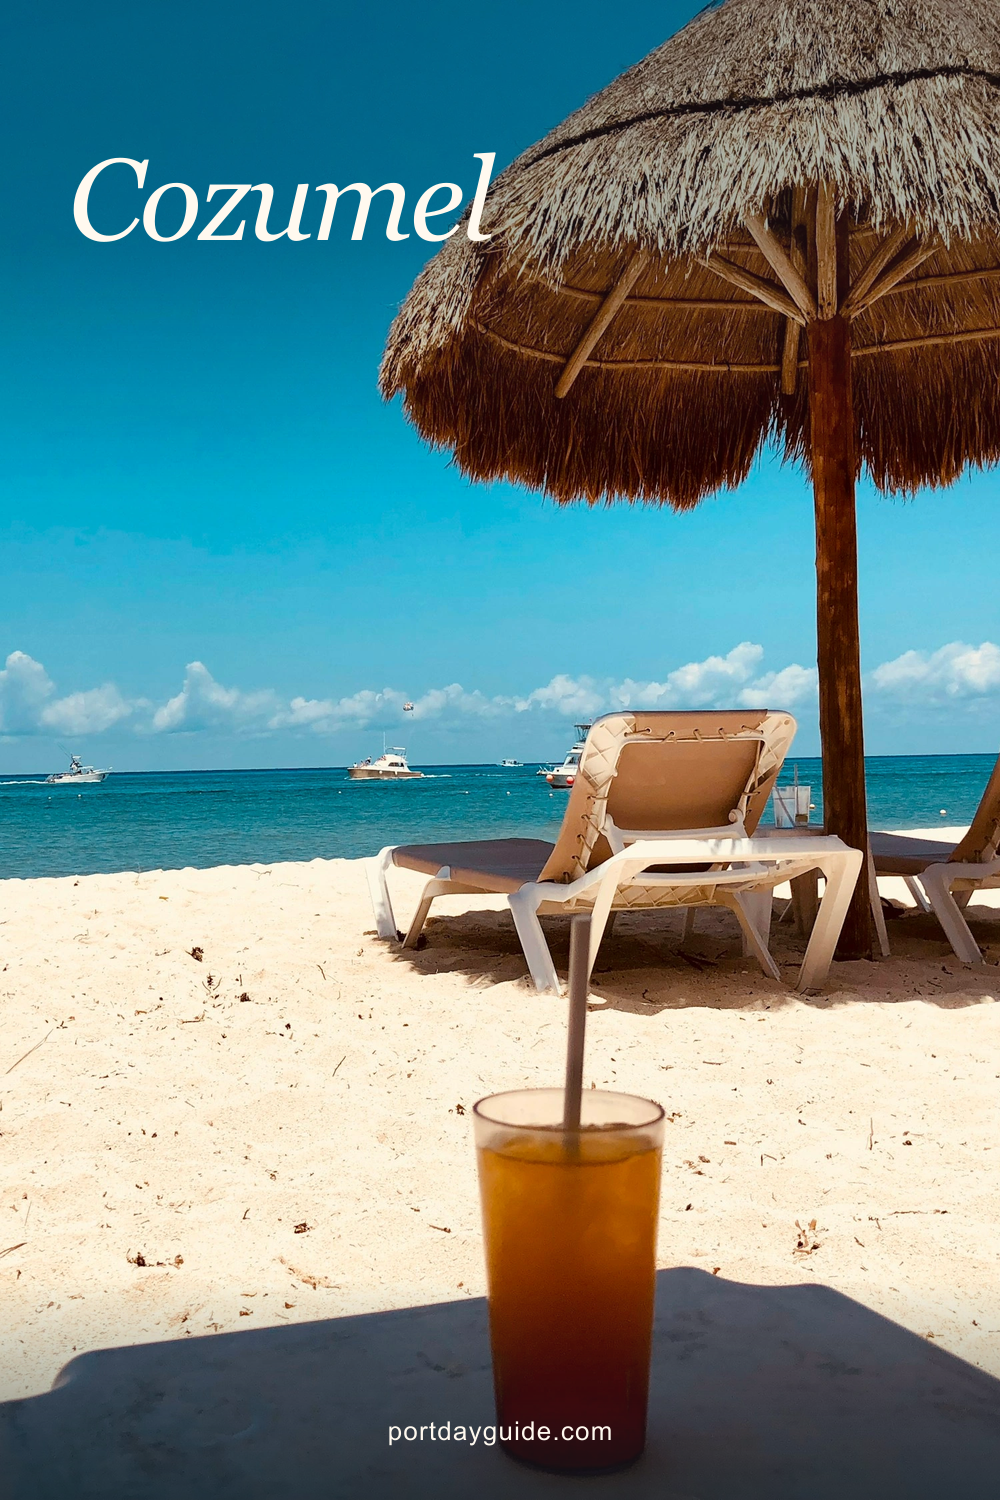
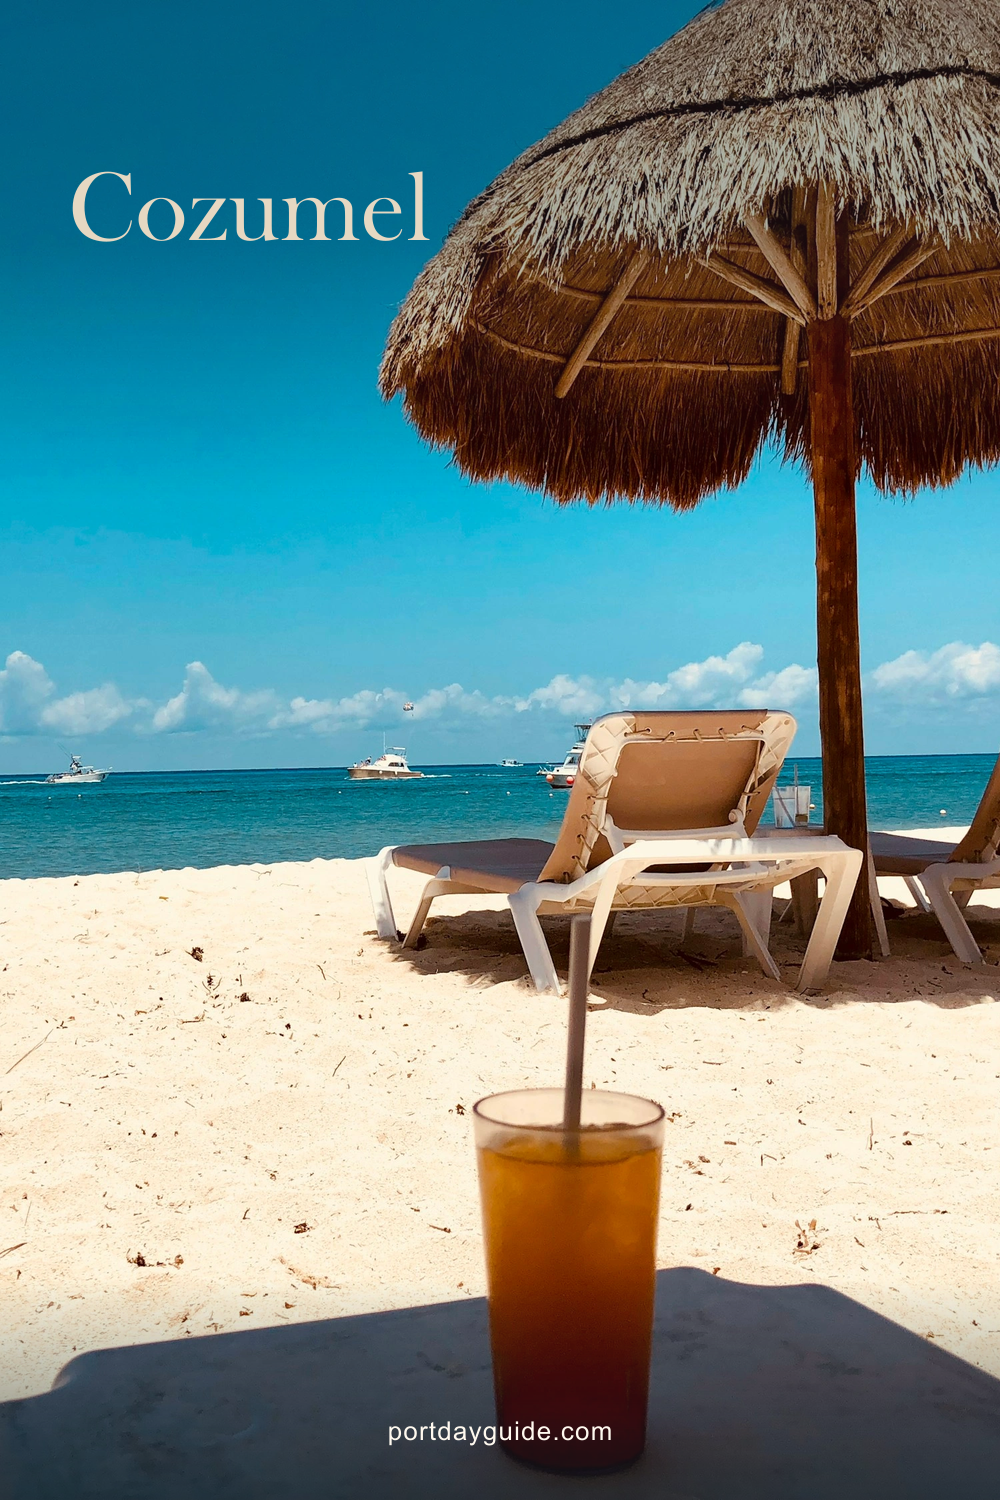
Refine Pinterest place typography and photo-matched colors

Changed region(s): [[0.093, 0.092, 0.496, 0.184], [0.093, 0.1533, 0.124, 0.184], [0.062, 0.1227, 0.093, 0.1533]]

diff --git a/docs/pinterest-batches/2026-10-31/README.md b/docs/pinterest-batches/2026-10-31/README.md
@@ -4,9 +4,20 @@
 
 ![All six draft Pins](contact-sheet.png)
 
-## November 1 visual revision
+## November 2 typography and palette refinement
 
-Recomposed the same six draft identities after the owner requested a more Instagram-style travel editorial look. Six different real photographs fill the frame: Cozumel beach and sweeping coast, Mahahual from above and at water level, Yokohama sunset and illuminated waterfront reflections. The latest owner direction removes all promotional overlay copy and on-image credits. Each image contains exactly the accurate place name (Cozumel, Mahahual or Yokohama) in Georgia and a much smaller portdayguide.com mark. The six photographs and their distinct views are retained, with only localized transparent gradients for legibility. No scenery was generated, replaced or retouched.
+Six different real photographs fill the frame: Cozumel beach and sweeping coast, Mahahual from above and at water level, Yokohama sunset and illuminated waterfront reflections. Each image contains exactly its accurate place name (Cozumel, Mahahual or Yokohama) and a much smaller portdayguide.com mark. The latest refinement makes the labels another step smaller and coordinates typography and color with each photograph. Cozumel and Mahahual use regular Baskerville Old Face at 100 px; Yokohama uses Segoe UI Light at 90 px. The photographs, crops and 26 px website marks are retained. No scenery was generated, replaced or retouched.
+
+| View | Place-name color | Visual fit |
+| --- | --- | --- |
+| Cozumel beach | Warm sand ivory `#E6D8C2` | Picks up the beach and thatch. |
+| Cozumel coast | Cool sea-foam gray `#D0DCDD` | Fits the surf and blue-gray cloud cover. |
+| Mahahual aerial | Muted sage ivory `#D2DBCB` | Coordinates with palms and pale beach. |
+| Mahahual palms | Soft sea-glass ivory `#D4DED6` | Echoes the shallow water. |
+| Yokohama sunset | Deep desaturated blue-gray `#344A52` | Uses the skyline's shadow tones against the original pale dusk sky. |
+| Yokohama night | Muted silver-blue `#B9CED7` | Picks up the waterfront reflections. |
+
+Tracking is restrained (0.5-0.8 px), without outlines, shadows or labels. Mahahual's water-level view changes only the place-name alignment from centered to left-aligned, moving it clear of the bright cloud into blue-sky negative space. Its baseline stays fixed. The dusk view removes the old top darkening gradient to support dark lettering against the original sky; all other overlays are unchanged. Every pixel below the top 500 px is identical to the preceding draft, including each website mark.
 
 New photo selection required new source files because the original taxi/terminal/promenade images did not deliver the requested scenic appeal. [Photo source register](photo-sources.json) records the verified primary source pages, photographer, location, platform license, download URL and download checksum. The six local WebP inputs are in the sources directory; these are draft inputs, not a stock photo collection or a claim that these new sources already appear in the site's public rights register. Source and license pages were checked November 1, 2026. The [Unsplash License](https://unsplash.com/license) and [Pexels License](https://www.pexels.com/license/) do not require on-image attribution. Each final publishing description retains the photographer, source URL, license URL and a crop/gradient/type modification notice; no photo replacement was necessary.
 
@@ -34,7 +45,7 @@ Prepared against main `91aa1d7de0a81d4bff0f0a29bc9f3c59f9ca2a9c`. Read the curre
 - [Publishing copy and preview for each Pin](copy-and-sources.md): exact English title, description, alt text, destination, angle and linked rights.
 - [CSV](publishing-copy.csv): review/publishing reference, **not** an automatic Pinterest bulk-upload specification.
 - [Manifest](manifest.json): full destinations, image and source SHA-256 hashes, dimensions, credit/license records, publication order and null actual publication fields.
-- [Editable brief](pins.json) and [renderer](render.mjs): deterministic native layouts extending the approach used by `scripts/generate-share-cards.mjs`. Verified real photographs are resized/cropped without generative retouching or scene replacement. The renderer uses locally available Georgia and Arial; fonts are not redistributed. No new image service or credentials.
+- [Editable brief](pins.json) and [renderer](render.mjs): deterministic native layouts extending the approach used by `scripts/generate-share-cards.mjs`. Verified real photographs are resized/cropped without generative retouching or scene replacement. Per-image typography, color and alignment are recorded in `placeStyle`. The renderer uses locally installed Baskerville Old Face, Segoe UI Light and Arial; fonts are not redistributed and must be installed to reproduce the same type rendering. No new image service or credentials.
 - `assets/`: six full-size PNGs. `contact-sheet.png`: all six at 300 pixels wide, with only place names and small website marks. The contact sheet also has no additional labels or headings.
 
 Rebuild locally with installed repository dependencies:
@@ -43,7 +54,7 @@ Rebuild locally with installed repository dependencies:
 node docs/pinterest-batches/2026-10-31/render.mjs
 ```
 
-The renderer writes only this draft directory. It rejects duplicate live IDs, overlong copy and photo enlargement, decodes every resulting PNG in full, and writes hashes. The two variants per page use different photographs and practical angles in their titles/descriptions. Hooks, instructions and credits appear only in the publishing copy. All six were visually inspected at 1000 x 1500 and in the 300-pixel contact sheet. The large lower text gradients were removed to reveal the scenery; only subtle place-name/footer gradients remain. The November 2 refinement reduces place labels by one visual size step: 126 to 104 px for Yokohama and 140 to 116 px for Cozumel/Mahahual (about 17% smaller). Baselines, alignment, photography, crops, gradients and the 26 px website mark remain unchanged. All six final images contain exactly two typeset text elements. Credits and source/license links are checked in the captions, not the image pixels. Asset validation checks full decodes and hashes, six distinct photos/IDs/UTMs, three pages with two angles, unchanged destinations against the earlier draft and a byte-stable eight-item feed. Every factual promise is supported by the destination implementation identified in `pins.json`. No live fare, savings, selected-date availability, first-hand visit or return guarantee is promised.
+The renderer writes only this draft directory. It rejects duplicate live IDs, overlong copy and photo enlargement, decodes every resulting PNG in full, and writes hashes. The two variants per page use different photographs and practical angles in their titles/descriptions. Hooks, instructions and credits appear only in the publishing copy. All six were visually inspected at 1000 x 1500 and in the 300-pixel contact sheet. This refinement reduces place labels from 116 to 100 px for Cozumel/Mahahual (13.79%) and from 104 to 90 px for Yokohama (13.46%). All six final images contain exactly two typeset text elements. Credits and source/license links are checked in the captions, not the image pixels. Asset validation checks full decodes and hashes, six distinct photos/IDs/UTMs, three pages with two angles, unchanged destinations and captions against the preceding draft and a byte-stable eight-item feed. A separate read-only design reviewer also inspected all six full-size images, thumbnails and the previous contact sheet. No blocking visual issues were found; the busier Mahahual aerial retains its current contrast. [Verification record](verification.json) includes the image-specific findings. Every factual promise is supported by the destination implementation identified in `pins.json`. No live fare, savings, selected-date availability, first-hand visit or return guarantee is promised.
 
 ## Publication proposal — held for coordinator review
 
